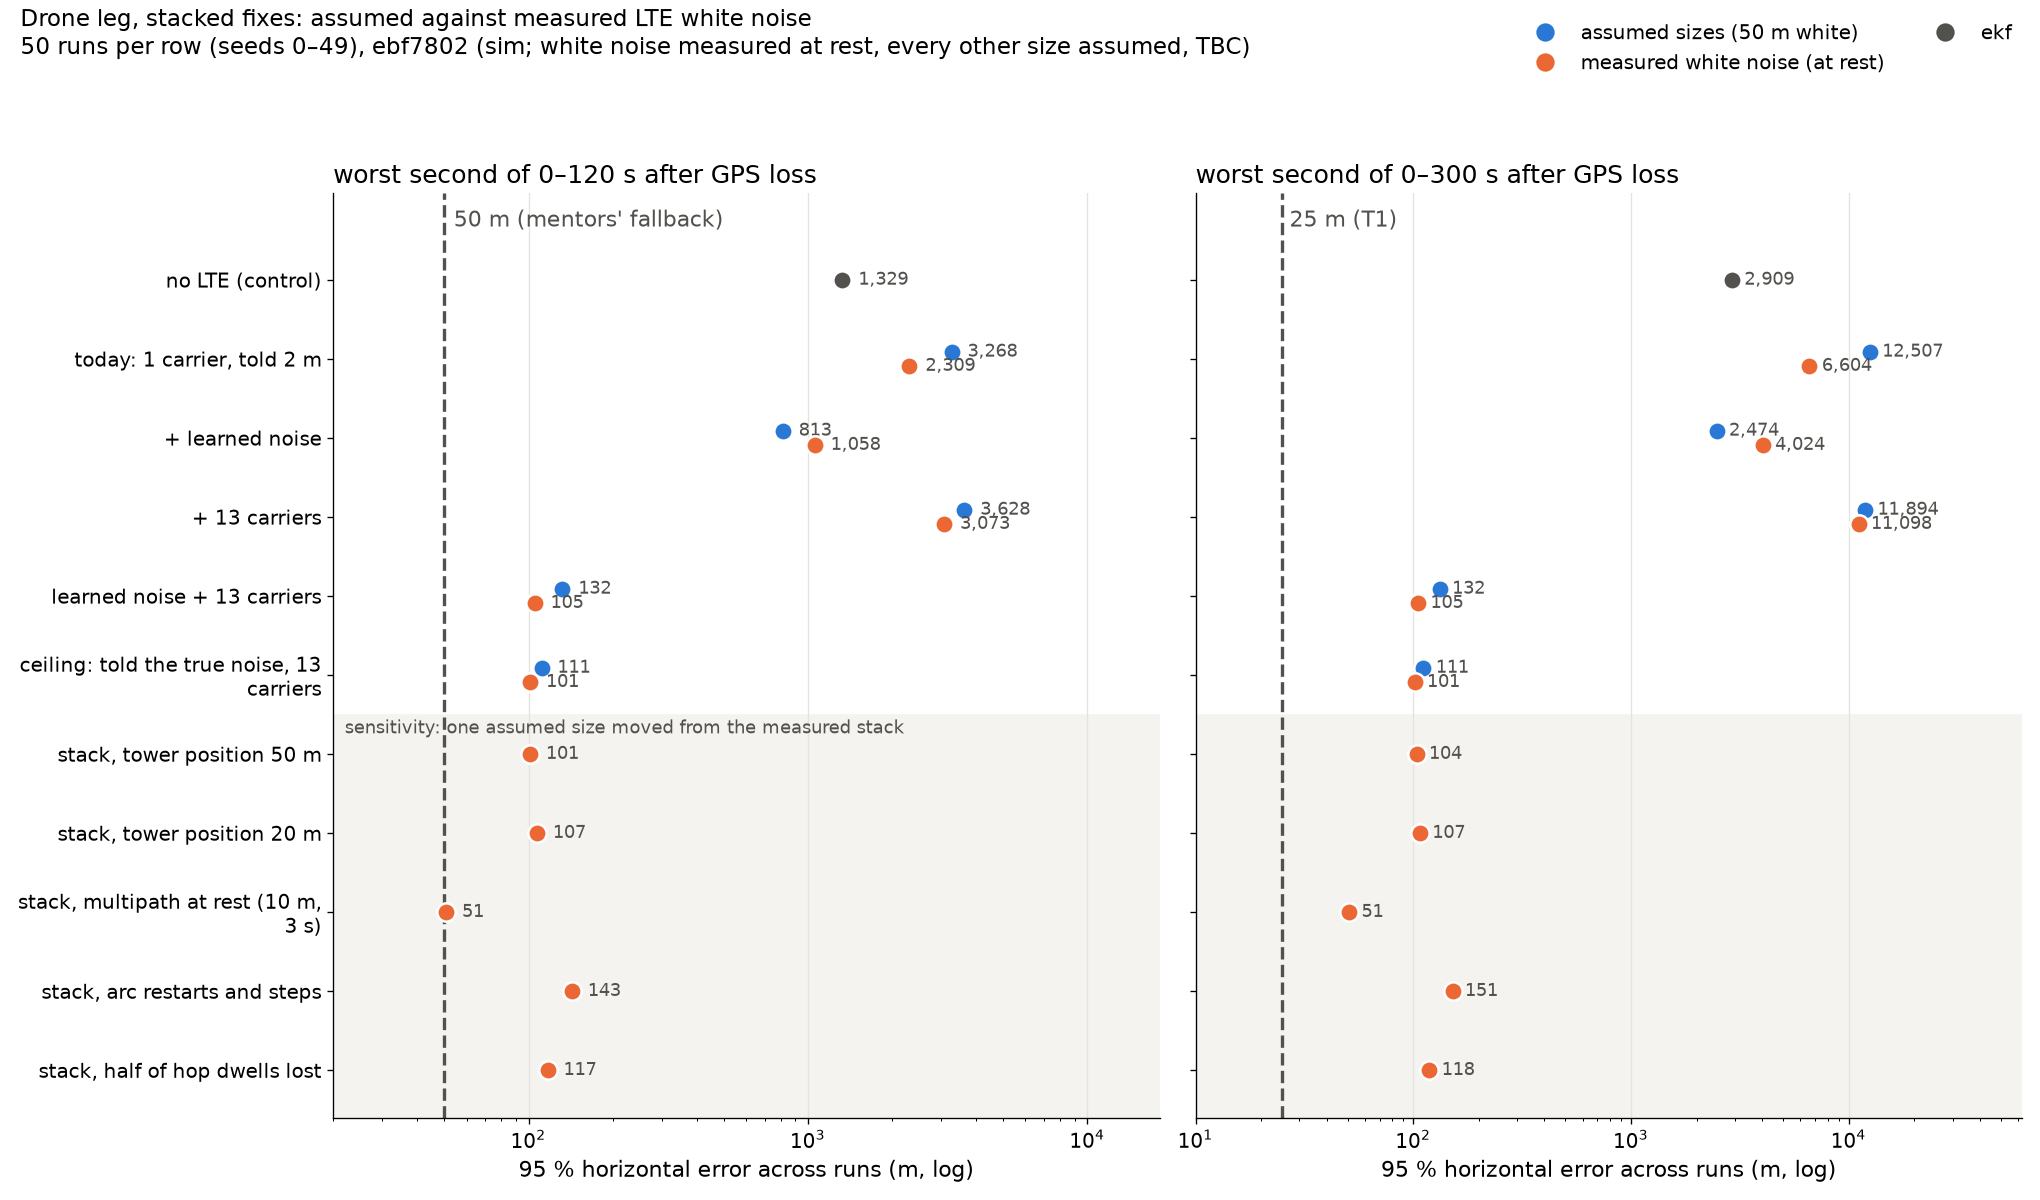
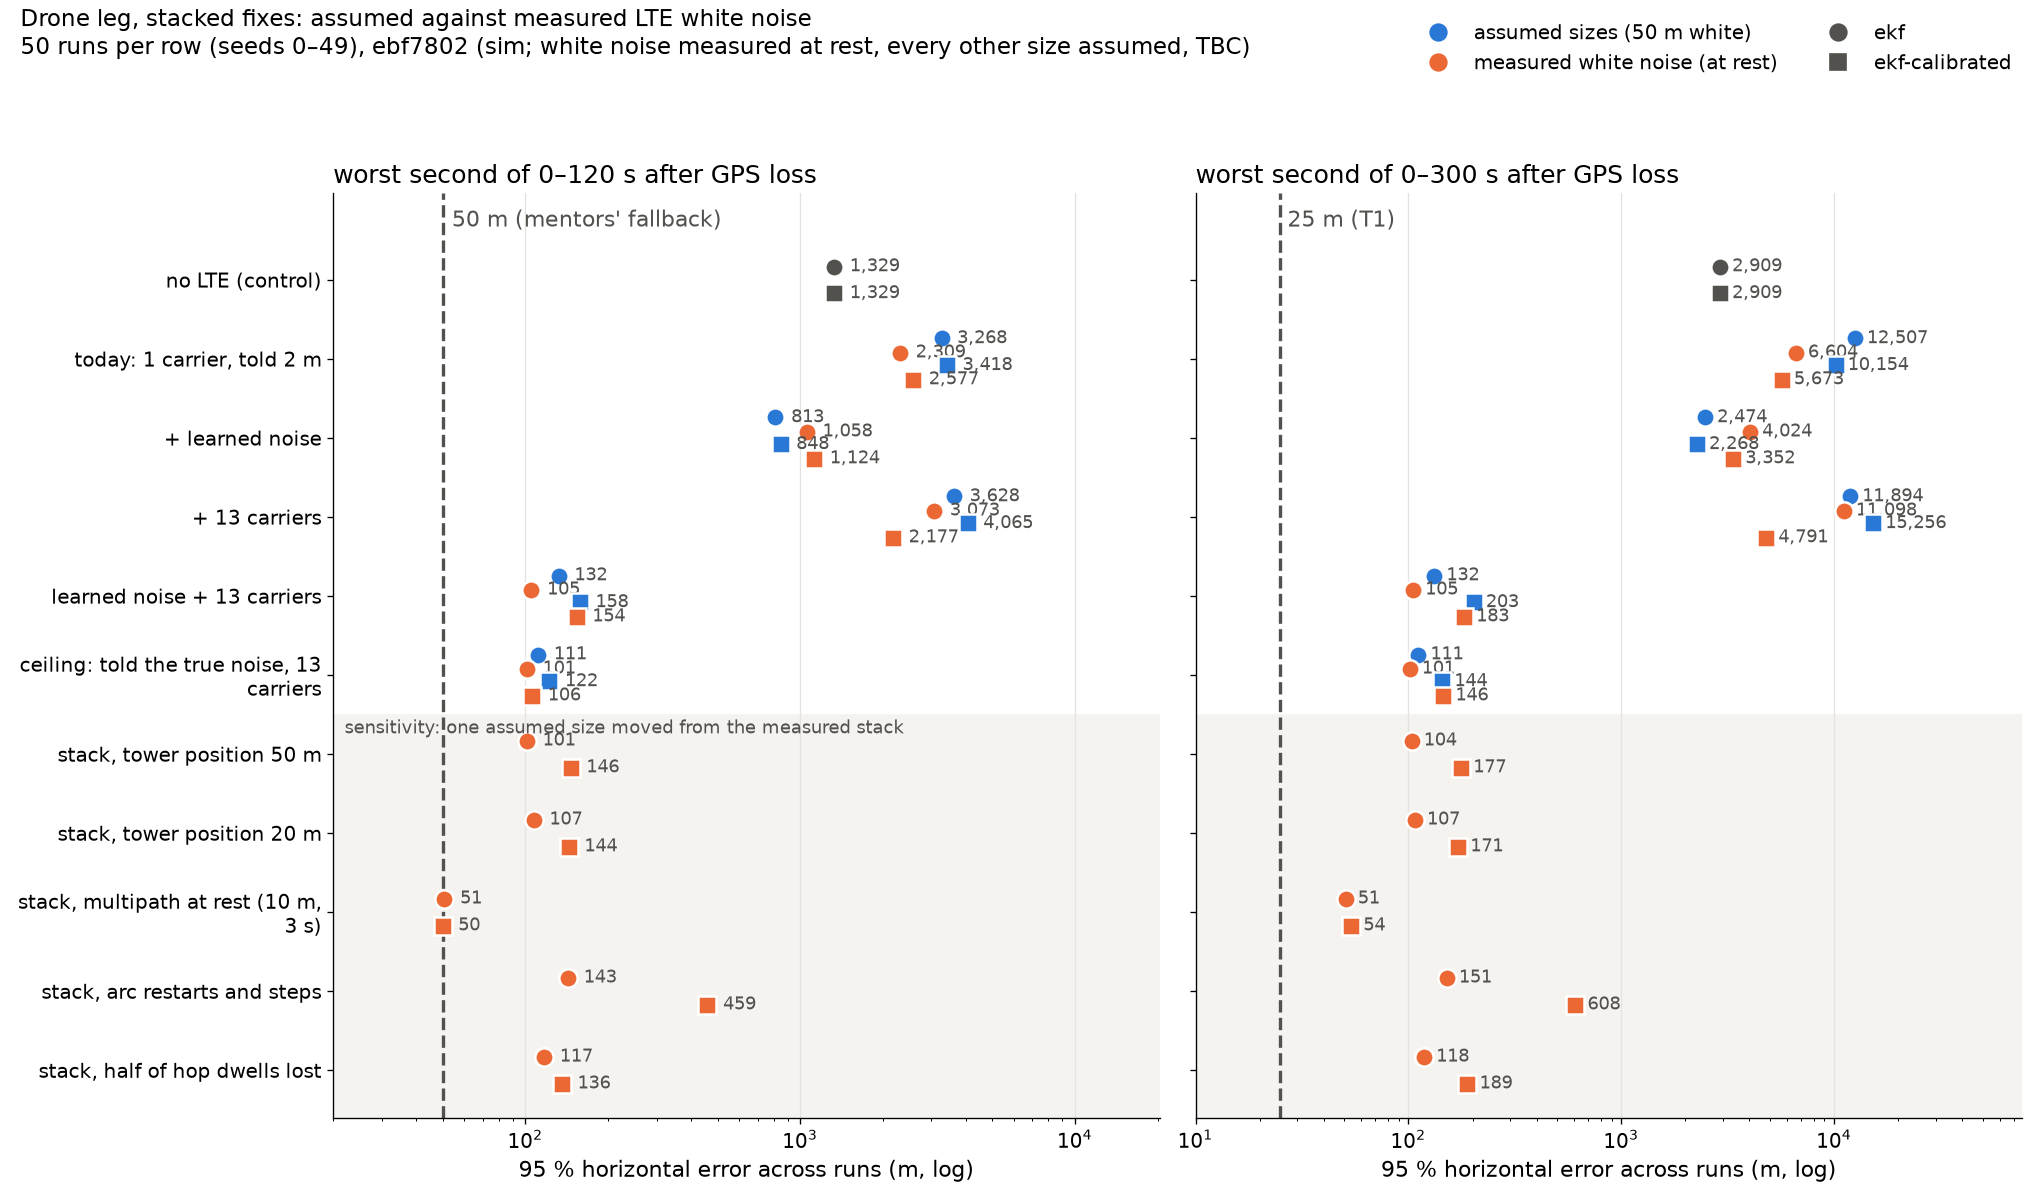
feat(analysis): add measured-noise ladder results for ekf-calibrated
The ekf-calibrated half of the study finished on g14 at ebf7802
(seeds 0-49, 222.8 min). The script merged it into rows.json and
regenerated summary.md and the figure; the ekf rows are unchanged.

Part of #257.

diff --git a/analysis/results/stacked-fixes-measured/summary.md b/analysis/results/stacked-fixes-measured/summary.md
@@ -1,6 +1,6 @@
 # Stacked fixes with LTE error sizes from our captures (#257)
 
-**Sim, a study variant of the drone leg** (ADR-0015; no committed scenario entry or default changed). At ebf7802: `python analysis/stacked_fixes.py --study measured --families ekf --seeds 0-49 --jobs 4` on g14 (Ryzen 7 8845HS, Linux), 11.2 min. Seeds 0–49, paired: on a seed every row sees the same trajectory, GNSS, IMU, baro, dongle, tower clocks, multipath, dropout and table error draws, so *assumed* and *measured* differ only in the LTE white noise (and a sensitivity row in its one moved size). Only the white noise is measured, and at rest (ADR-0036): the measured rows keep every other size at the leg's assumed value. Hopping is a study leg (ADR-0040): the payload cannot hop yet. Choices of this study: ADR-0049 (Proposed).
+**Sim, a study variant of the drone leg** (ADR-0015; no committed scenario entry or default changed). At ebf7802: `python analysis/stacked_fixes.py --study measured --families ekf --seeds 0-49 --jobs 4` on g14 (Ryzen 7 8845HS, Linux), 11.2 min; `python analysis/stacked_fixes.py --study measured --families ekf-calibrated --seeds 0-49 --jobs 4` on g14 (Ryzen 7 8845HS, Linux), 222.8 min. Seeds 0–49, paired: on a seed every row sees the same trajectory, GNSS, IMU, baro, dongle, tower clocks, multipath, dropout and table error draws, so *assumed* and *measured* differ only in the LTE white noise (and a sensitivity row in its one moved size). Only the white noise is measured, and at rest (ADR-0036): the measured rows keep every other size at the leg's assumed value. Hopping is a study leg (ADR-0040): the payload cannot hop yet. Choices of this study: ADR-0049 (Proposed).
 
 ## Sizes
 
@@ -22,14 +22,14 @@ Specs: `nolte` = no LTE records (`challenge-drone-outage` without `sources.lte`)
 
 ## Ladder: assumed against measured
 
-| Row | `ekf` assumed 120 / 300 s (m) | `ekf` measured 120 / 300 s (m) |
-|---|---|---|
-| no LTE (control) | 1,329 / 2,909 | 1,329 / 2,909 |
-| today: 1 carrier, told 2 m | 3,268 / 12,507 | 2,309 / 6,604 |
-| + learned noise | 813 / 2,474 | 1,058 / 4,024 |
-| + 13 carriers | 3,628 / 11,894 | 3,073 / 11,098 |
-| learned noise + 13 carriers | 132 / 132 | 105 / 105 |
-| ceiling: told the true noise, 13 carriers | 111 / 111 | 101 / 101 |
+| Row | `ekf` assumed 120 / 300 s (m) | `ekf` measured 120 / 300 s (m) | `ekf-calibrated` assumed 120 / 300 s (m) | `ekf-calibrated` measured 120 / 300 s (m) |
+|---|---|---|---|---|
+| no LTE (control) | 1,329 / 2,909 | 1,329 / 2,909 | 1,329 / 2,909 | 1,329 / 2,909 |
+| today: 1 carrier, told 2 m | 3,268 / 12,507 | 2,309 / 6,604 | 3,418 / 10,154 | 2,577 / 5,673 |
+| + learned noise | 813 / 2,474 | 1,058 / 4,024 | 848 / 2,268 | 1,124 / 3,352 |
+| + 13 carriers | 3,628 / 11,894 | 3,073 / 11,098 | 4,065 / 15,256 | 2,177 / 4,791 |
+| learned noise + 13 carriers | 132 / 132 | 105 / 105 | 158 / 203 | 154 / 183 |
+| ceiling: told the true noise, 13 carriers | 111 / 111 | 101 / 101 | 122 / 144 | 106 / 146 |
 
 ## Every row
 
@@ -51,6 +51,22 @@ Specs: `nolte` = no LTE records (`challenge-drone-outage` without `sources.lte`)
 | stack, multipath at rest (10 m, 3 s) | sensitivity | `ekf-learned-noise` | `m-13c-mprest` | 51 (s 87) | no | 51 (s 87) | no | 29 / 29 | 0 [0/50] | 1.00 (1.00) |
 | stack, arc restarts and steps | sensitivity | `ekf-learned-noise` | `m-13c-arcs` | 143 (s 89) | no | 151 (s 177) | no | 71 / 85 | 0 [0/50] | 1.00 (0.98) |
 | stack, half of hop dwells lost | sensitivity | `ekf-learned-noise` | `m-13c-hoploss` | 117 (s 89) | no | 118 (s 171) | no | 85 / 84 | 0 [0/50] | 1.00 (0.99) |
+| no LTE (control) | both | `ekf-calibrated` | `nolte` | 1,329 (s 120) | no | 2,909 (s 300) | no | 1,140 / 2,468 | 0 [0/50] | 1.00 (1.00) |
+| today: 1 carrier, told 2 m | assumed | `ekf-calibrated` | `1c` | 3,418 (s 117) | no | 10,154 (s 300) | no | 1,239 / 3,180 | 56 [1/50] (35) | 0.70 (0.04) |
+| today: 1 carrier, told 2 m | measured | `ekf-calibrated` | `m-1c` | 2,577 (s 116) | no | 5,673 (s 297) | no | 1,088 / 2,417 | 374 [8/50] (5, 6, 7, 9, 14, 16, …) | 0.28 (0.03) |
+| + learned noise | assumed | `ekf-calibrated-learned-noise` | `1c` | 848 (s 120) | no | 2,268 (s 300) | no | 450 / 1,163 | 0 [0/50] | 1.00 (0.57) |
+| + learned noise | measured | `ekf-calibrated-learned-noise` | `m-1c` | 1,124 (s 120) | no | 3,352 (s 300) | no | 631 / 1,713 | 0 [0/50] | 1.00 (0.46) |
+| + 13 carriers | assumed | `ekf-calibrated` | `13c` | 4,065 (s 120) | no | 15,256 (s 300) | no | 1,085 / 2,580 | 187 [6/50] (0, 30, 31, 35, 44, 48) | 0.44 (0.05) |
+| + 13 carriers | measured | `ekf-calibrated` | `m-13c` | 2,177 (s 115) | no | 4,791 (s 300) | no | 562 / 1,851 | 1,050 [26/50] (0, 2, 5, 6, 8, 15, …) | 0.10 (0.03) |
+| learned noise + 13 carriers | assumed | `ekf-calibrated-learned-noise` | `13c` | 158 (s 89) | no | 203 (s 173) | no | 98 / 126 | 0 [0/50] | 1.00 (0.95) |
+| learned noise + 13 carriers | measured | `ekf-calibrated-learned-noise` | `m-13c` | 154 (s 115) | no | 183 (s 185) | no | 75 / 112 | 0 [0/50] | 1.00 (0.79) |
+| ceiling: told the true noise, 13 carriers | assumed | `ekf-calibrated` | `13c-true` | 122 (s 90) | no | 144 (s 171) | no | 71 / 84 | 0 [0/50] | 1.00 (1.00) |
+| ceiling: told the true noise, 13 carriers | measured | `ekf-calibrated` | `m-13c-true` | 106 (s 87) | no | 146 (s 181) | no | 61 / 78 | 0 [0/50] | 1.00 (1.00) |
+| stack, tower position 50 m | sensitivity | `ekf-calibrated-learned-noise` | `m-13c-tp50` | 146 (s 115) | no | 177 (s 171) | no | 82 / 114 | 0 [0/50] | 1.00 (0.83) |
+| stack, tower position 20 m | sensitivity | `ekf-calibrated-learned-noise` | `m-13c-tp20` | 144 (s 114) | no | 171 (s 300) | no | 81 / 110 | 0 [0/50] | 1.00 (0.79) |
+| stack, multipath at rest (10 m, 3 s) | sensitivity | `ekf-calibrated-learned-noise` | `m-13c-mprest` | 50 (s 87) | yes | 54 (s 178) | no | 30 / 35 | 0 [0/50] | 1.00 (1.00) |
+| stack, arc restarts and steps | sensitivity | `ekf-calibrated-learned-noise` | `m-13c-arcs` | 459 (s 106) | no | 608 (s 158) | no | 87 / 124 | 0 [0/50] | 1.00 (0.94) |
+| stack, half of hop dwells lost | sensitivity | `ekf-calibrated-learned-noise` | `m-13c-hoploss` | 136 (s 107) | no | 189 (s 172) | no | 87 / 117 | 0 [0/50] | 1.00 (0.99) |
 
 ## Read with
 

diff --git a/analysis/results/stacked-fixes-measured/NOTES.md b/analysis/results/stacked-fixes-measured/NOTES.md
@@ -18,7 +18,7 @@ Only the LTE white noise: 50 m on every 1 Hz record (assumed) against ADR-0036's
 
 ## Not checked
 
-- `ekf-calibrated`: running on g14 at the same commit when this was written; merged into `rows.json` by the script when it finishes.
+- `ekf-calibrated`: finished on g14 at the same commit (222.8 min) after this was written and is in `summary.md` and `rows.json`; its rows are not read here. Its assumed rows equal #247's `ekf-calibrated` numbers.
 - `ekf-honest` (#251): its branch had not been rebased onto `main` when this study started.
 - Two unmeasured sizes moved together (e.g. at-rest multipath with arc restarts): each sensitivity row moves one size.
 - A moving capture: every size here is at rest or assumed.
